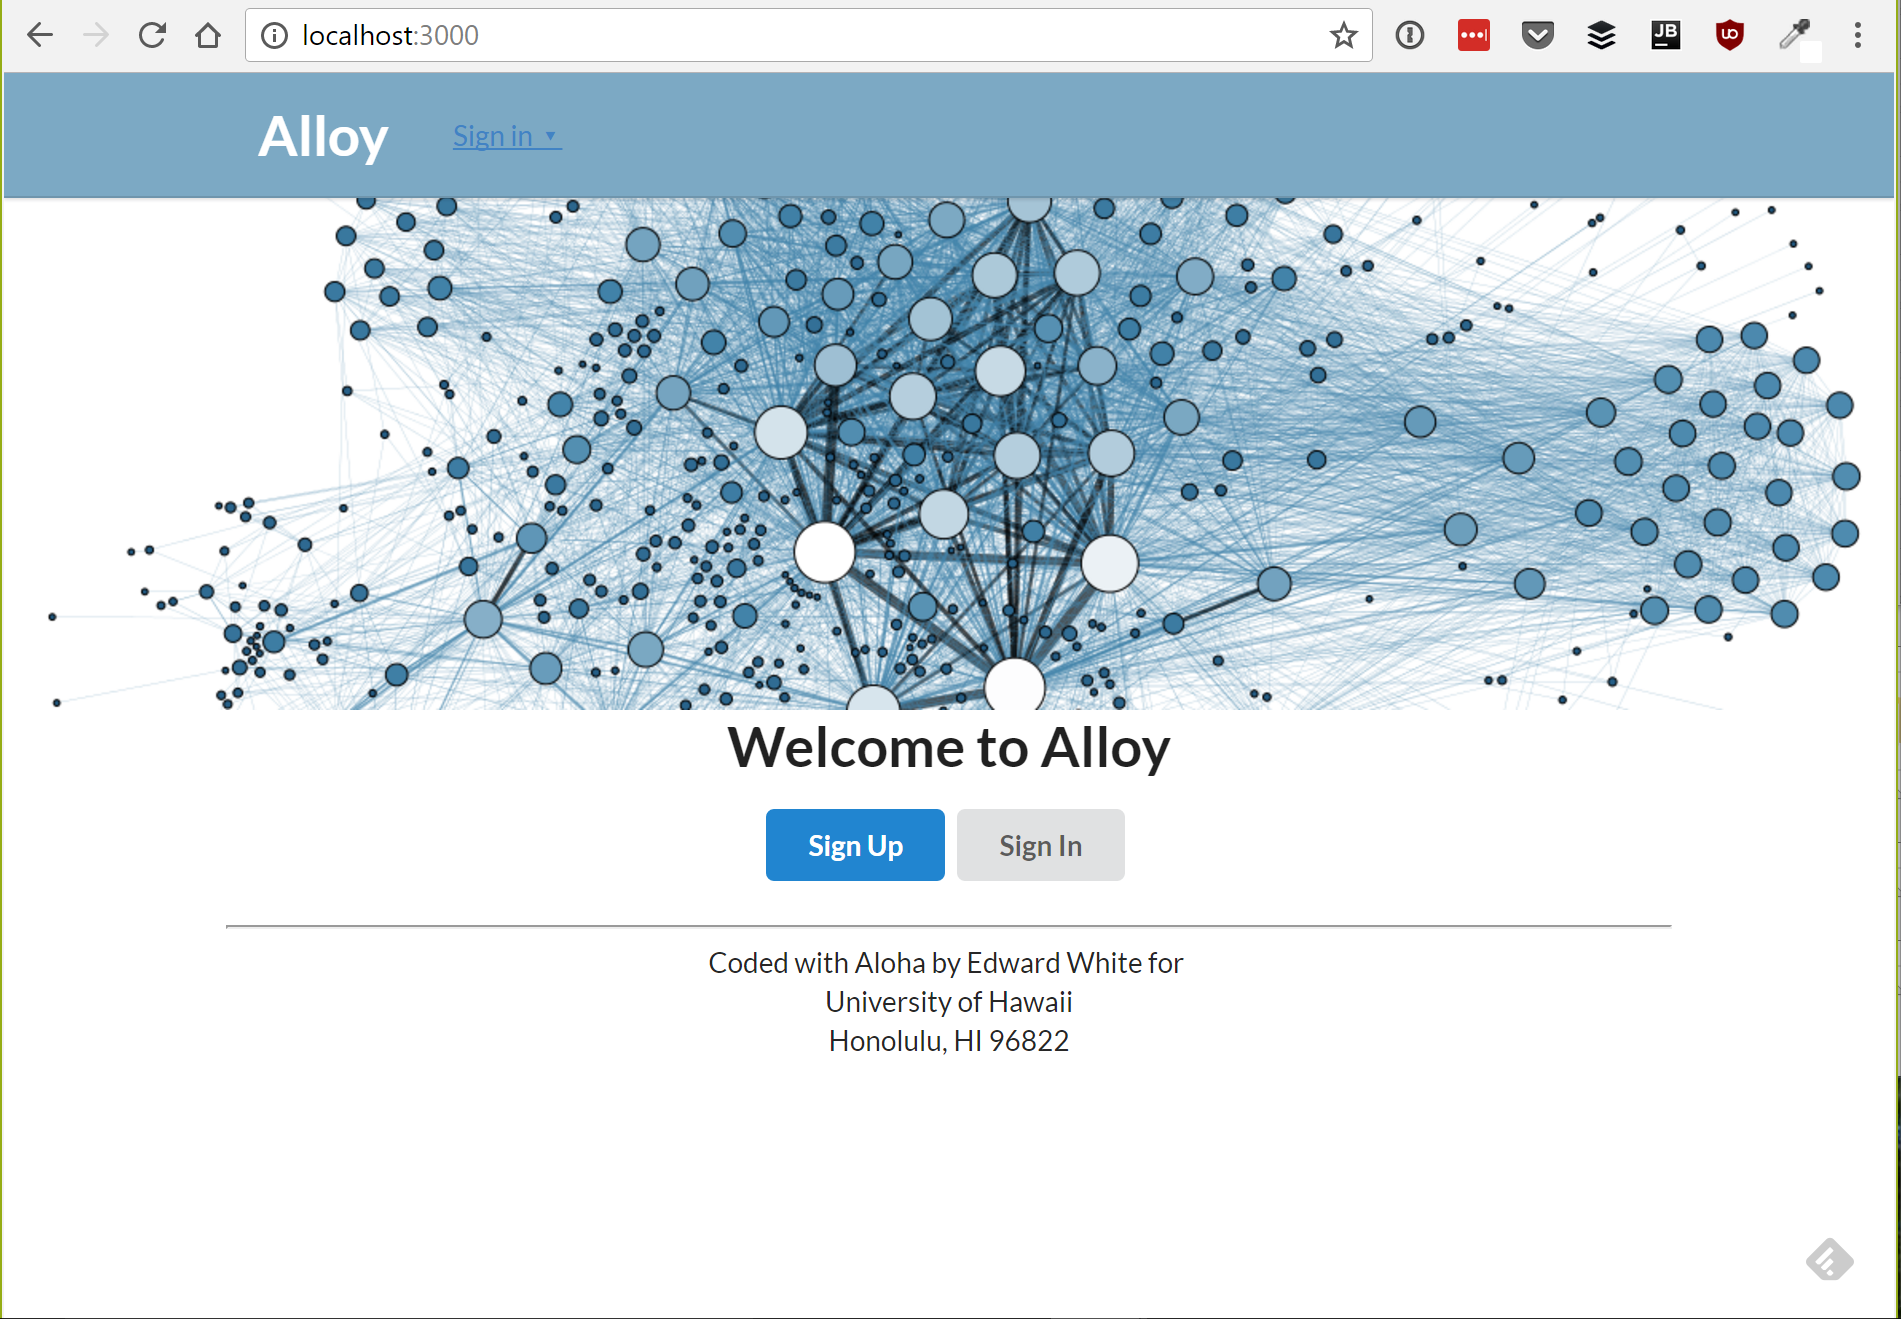
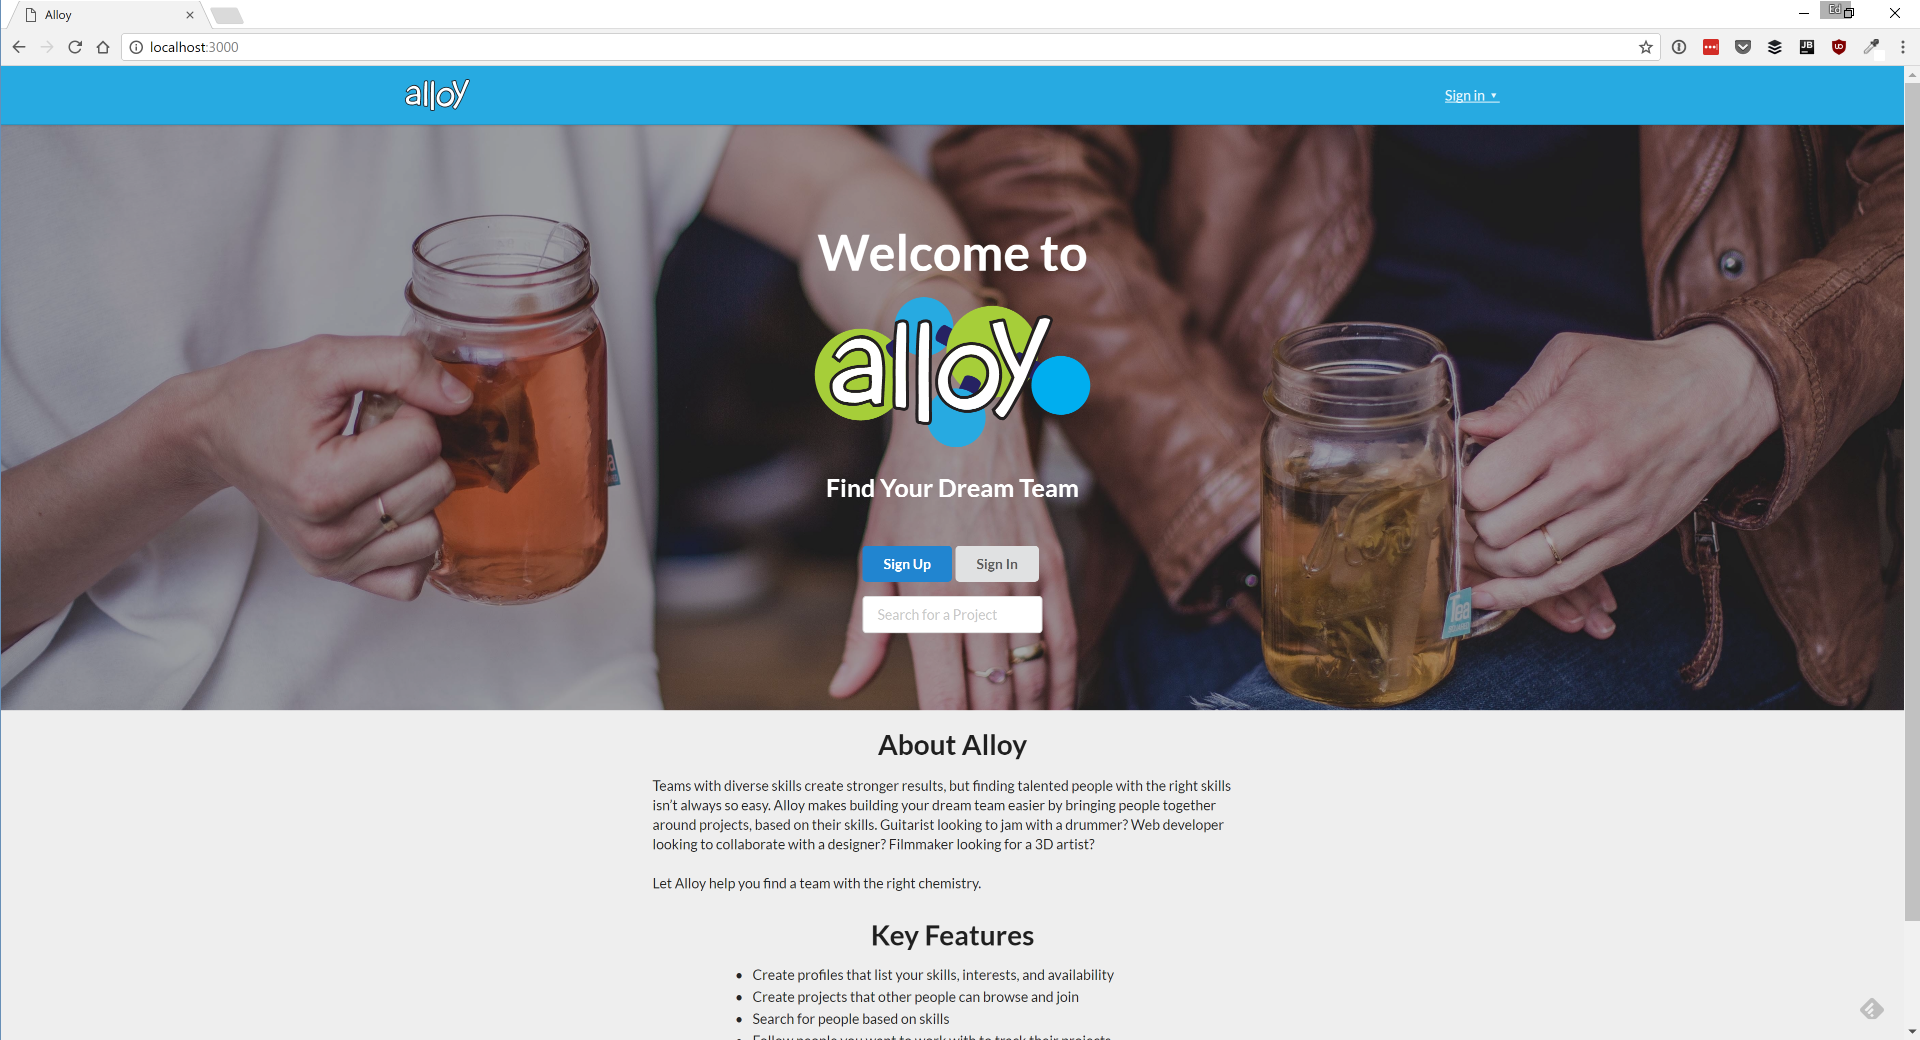
Completely reworked and rebranded landing page

diff --git a/app/imports/ui/pages/home-page.html b/app/imports/ui/pages/home-page.html
@@ -1,10 +1,28 @@
 <template name="Home_Page">
-  <img class="ui fluid image" src="/images/blue-graph.png"/>
-  <div class="ui centered container" style="text-align:center;">
-
-    <h1>Welcome to Alloy</h1>
-    <button class="ui primary button">Sign Up</button>
-    <button class="ui button">Sign In</button>
-
+  <div class="ui container" id="Splash_Top">
+    <div id="Splash_Page" class="ui five row centered grid">
+      <div class="row"><h1 style="color:#FFFFFF; font-size:50px; font-weight:bold;">Welcome to</h1></div>
+      <div class="huge row" style="padding:0px;"><img class="ui fluid image" src="/images/alloy-wordmark.svg"/><h2 style="color:#FFFFFF; font-size:25px; font-weight:bold;">Find Your Dream Team</h2></div>
+      <div class="row"></div>
+      <div class="row">
+        <button class="ui primary button">Sign Up</button>
+        <button class="ui button">Sign In</button>
+      </div>
+      <div class="ui input">
+        <input id="project-search" type="text" placeholder="Search for a Project">
+      </div>
+    </div>
+  </div>
+  <div style="padding-top:16px;" class="ui very padded container">
+    <h1 style="text-align:center;">About Alloy</h1>
+    <p style="max-width:600px;margin:0 auto;">Teams with diverse skills create stronger results, but finding talented people with the right skills isn’t always so easy. Alloy makes building your dream team easier by bringing people together around projects, based on their skills. Guitarist looking to jam with a drummer? Web developer looking to collaborate with a designer? Filmmaker looking for a 3D artist?<br><br>Let Alloy help you find a team with the right chemistry.</p>
+    <h1 style="text-align:center;">Key Features</h1>
+    <ul class="ui list" style="max-width:400px;margin:0 auto;">
+      <li>Create profiles that list your skills, interests, and availability</li>
+      <li>Create projects that other people can browse and join</li>
+      <li>Search for people based on skills</li>
+      <li>Follow people you want to work with to track their projects</li>
+      <li>Set up alerts for projects that might interest you</li>
+    </ul>
   </div>
 </template>

diff --git a/app/imports/ui/stylesheets/style.css b/app/imports/ui/stylesheets/style.css
@@ -1,11 +1,42 @@
 body {
-  padding-top: 61px; /* Move body of page below navbar. */
+  padding-top: 58px; /* Move body of page below navbar. */
+  background: #EEEEEE;
 }
 
 .top.menu {
-  background-color: #7CA9C4;
+  background-color: #27AAE1;
+}
+
+#login-buttons a, .accounts-dialog a {
+  color: rgba(255, 255, 255, 0.901961);
 }
 
 .wordmark {
   color: #FFFFFF;
+}
+
+.darkened {
+  background-color: rgba(0,0,0,0.5);
+}
+
+#Splash_Top {
+  background: linear-gradient(
+      rgba(0, 0, 0, 0.35),
+      rgba(0, 0, 0, 0.35)
+  ), url('/images/tea-splash.jpg');
+  background-repeat: no-repeat;
+  background-size:cover;
+  background-position:center;
+  width:100%;
+  height: 600px;
+}
+
+#Splash_Image {
+  filter: brightness(80%);
+  position:relative;
+  width:100%
+}
+
+#Splash_Page {
+  padding-top: 5%;
 }

diff --git a/app/imports/ui/layouts/header.html b/app/imports/ui/layouts/header.html
@@ -1,12 +1,12 @@
 <template name="Header">
     <div class="ui top fixed borderless menu">
   <div class="ui container">
-      <a class="item" href="{{pathFor 'Home_Page'}}"><h1 class="wordmark">Alloy</h1></a>
+      <a class="item" href="{{pathFor 'Home_Page'}}"><img class="ui image" width="65" src="/images/alloy-bare-wordmark.svg"></a>
       {{#if currentUser}}
         <a class="{{ isActiveRoute 'Add_Stuff_Page'}} item" href="{{ pathFor 'Add_Stuff_Page' }}">Add Stuff </a>
         <a class="{{ isActiveRoute 'List_Stuff_Page'}} item" href="{{ pathFor 'List_Stuff_Page' }}">List Stuff</a>
       {{/if}}
-      <a href="#" class="item">{{> loginButtons }} </a>
+      <a href="#" class="right item">{{> loginButtons }} </a>
     </div>
   </div>
 </template>

diff --git a/app/client/head.html b/app/client/head.html
@@ -3,7 +3,7 @@
   <meta http-equiv="X-UA-Compatible" content="IE=edge">
   <meta name="viewport" content="width=device-width, initial-scale=1">
   <meta name="mobile-web-app-capable" content="yes">
-  <title>meteor-application-template</title>
+  <title>Alloy</title>
   <!-- If you update favicon.ico in the public directory, then increment the "v=" below to force update. -->
   <link rel="icon" sizes="16x16 32x32" href="/favicon.ico?v=2">
 </head>
